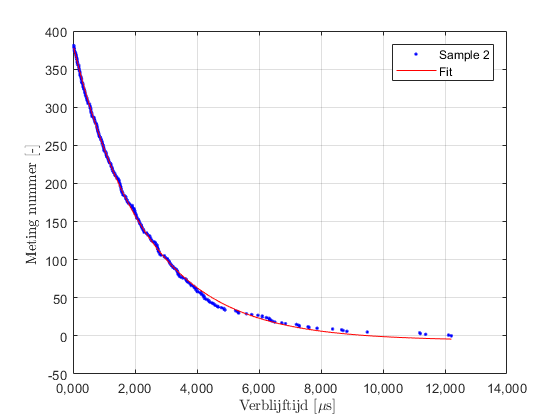
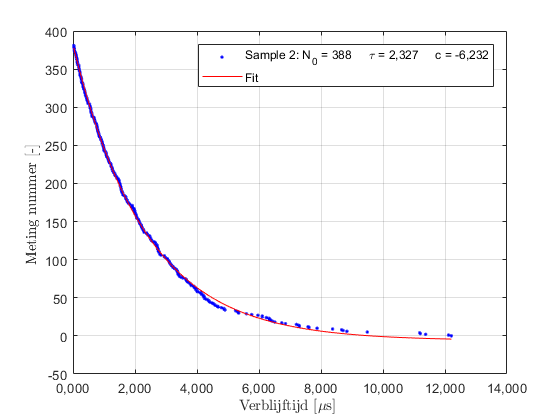
muonlab plots added

Changed region(s): [[0.3643, 0.0929, 0.6375, 0.2167], [0.6679, 0.0929, 0.8804, 0.2167]]

diff --git a/Data/MuonLab/createFit.m b/Data/MuonLab/createFit.m
@@ -30,7 +30,10 @@ opts.StartPoint = [-5 0 -50];
 % Plot fit with data.
 figure( 'Name', 'untitled fit 1' );
 h = plot( fitresult, xData, yData );
-legend( h, 'Sample 2', 'Fit', 'Location', 'NorthEast' );
+
+sample_omschrijving = sprintf('Sample 6: N_0 = 116,8     \\tau = 2,245     c = -1,058')
+
+legend( h, sample_omschrijving, 'Fit', 'Location', 'NorthEast' );
 % Label axes
 xlabel(' Verblijftijd [$\mathrm{\mu}$s] ', 'Interpreter', 'latex')
 ylabel(' Meting nummer [-] ', 'Interpreter', 'latex')

diff --git a/Data/MuonLab/plot_lifetime.m b/Data/MuonLab/plot_lifetime.m
@@ -1,4 +1,4 @@
-load 2/lifetime_raw.txt
+load 6/lifetime_raw.txt
 time = lifetime_raw(:,2)
 index = lifetime_raw(:,1)
 
@@ -20,5 +20,4 @@ set(gca, 'YTickLabel', nieuw_y)
 % Correcte plot layout maken
 xlabel(' Verblijftijd [$\mathrm{\mu}$s] ', 'Interpreter', 'latex')
 ylabel(' Meting nummer [-] ', 'Interpreter', 'latex')
-legend('show', 'Location', 'NorthEast', 'Meetwaarden', 'Gauss fit');
 hold off
